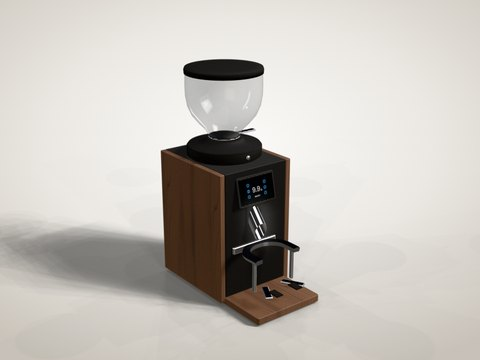
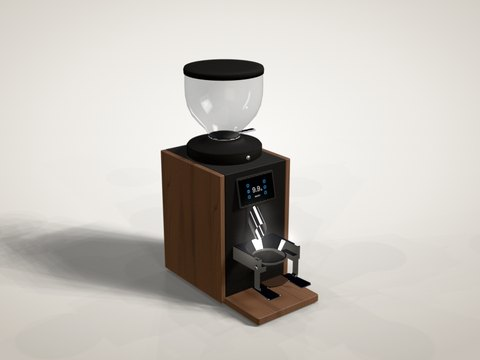
Bentwood H75: Siebträgerhalter nach den Werksfotos neu aufgebaut
Statt U-Bügel mit Streben jetzt wie im Original: gefräster Block
100 x 78,5 x 27 mm mit Trichterkegel (oben Ø 87, unten Ø 62), vorn nur
5,8 mm starke Außenwände und ein schmaler Ring um die Öffnung mit Absätzen
an den Wänden; unten 16,5 mm breite Wangen. Je Seite ein Flachband
3,8 x 12 mm in einer Nut mit Langloch und Schraube, unten mit Radius nach
innen abgekantet; U-förmige Auflage mit zwei nach vorn ausgestellten
Zinken und gewölbter Gummiauflage. Höhe so, dass wie im Frontfoto rund
11 mm Luft unter dem Auslauf bleiben. Abgeglichen an Front- und
Dreiviertelansichten von beiden Seiten, mit und ohne Siebträger.

Claude-Session: https://claude.ai/code/session_01XVE81muw7HYcqaEMYwBuXM

Changed region(s): [[0.4688, 0.6417, 0.6562, 0.8556], [0.4375, 0.8556, 0.5, 0.8861], [0.375, 0.825, 0.4375, 0.8556]]

diff --git a/js/devices/bentwood.js b/js/devices/bentwood.js
@@ -6,7 +6,9 @@
 // verstellbarer Siebträgerhalter) und die Werksfotos der Farbvarianten
 // (Schwarz/Walnuss, Schwarz, Weiß). Eine bemaßte Zeichnung veröffentlicht
 // Bentwood nicht; Gehäuse (170 × 200 × 262 mm), Display, Auslauf, Halter und
-// Trichter sind über die Herstellermaße aus den Fotos abgeleitet.
+// Trichter sind über die Herstellermaße aus den Fotos abgeleitet. Der
+// Siebträgerhalter ist an Front- und Dreiviertelansichten von beiden Seiten
+// (mit und ohne Siebträger) nachgemessen.
 //
 // Koordinaten: X = Breite, Y = Höhe (0 = Stellfläche), Z = Tiefe (+Z = Front).
 // Z = 0 ist die Mitte des Gehäuses (Trichterachse).
@@ -26,6 +28,24 @@ const H0 = 8; // Unterkante Gehäuse (Füße)
 const H1 = 268; // Oberkante Gehäuse
 const SIDE = 11; // Stärke der Seitenteile
 const FX = -6; // Mitte von Display, Auslauf und Halter (leicht links)
+
+/** Flächen umdrehen (nach einer Spiegelung mit scale(-1, 1, 1)) */
+function flipFaces(g) {
+  const out = g.index ? g.toNonIndexed() : g;
+  const p = out.attributes.position;
+  for (let i = 0; i < p.count; i += 3) {
+    for (const name of Object.keys(out.attributes)) {
+      const a = out.attributes[name];
+      for (let c = 0; c < a.itemSize; c++) {
+        const t = a.array[(i + 1) * a.itemSize + c];
+        a.array[(i + 1) * a.itemSize + c] = a.array[(i + 2) * a.itemSize + c];
+        a.array[(i + 2) * a.itemSize + c] = t;
+      }
+    }
+  }
+  out.computeVertexNormals();
+  return out;
+}
 
 const STAGES = [
   { id: 'sk-frame', src: 'skeleton', from: [0, 1, 0], dist: 400, gap: 0, dur: 0.7, drop: true },
@@ -236,35 +256,172 @@ function buildBentwood(mm) {
   // =========================================================================
   B.stage('fork');
   {
+    // Höhenverstellbarer Siebträgerhalter nach den Werksfotos (Front, Dreiviertel links/rechts,
+    // mit und ohne Siebträger), Maße über die Gerätebreite 170 mm aus der Frontansicht:
+    // - gefräster Block 100 × 78,5 mm, 27 mm hoch, mit Trichterkegel (oben Ø 87, unten Ø 62);
+    //   vorn bleiben nur 5,8 mm starke Außenwände stehen, dazwischen ist die Front bis auf eine
+    //   5 mm hohe Lippe ausgeschnitten (Frontfoto: Kegelfläche reicht bis an die Wände)
+    // - je Seite ein Flachband (3,8 × 12 mm) in einer Nut der Wange, mit Langloch und Schraube,
+    //   unten nach innen abgekantet
+    // - U-förmige Auflage (3 mm) mit zwei nach vorn ausgestellten Zinken, Gummi auf dem Steg
     const fm = mat('metal.fork');
-    // Halteplatte an der Front
-    B.add(rbox(104, 14, 6, 2, 2), fm, S('metal.fork')).position.set(FX, 112, HD + 3);
-    // Bügel (U, vorne offen) mit schrägen Innenflanken
-    const pts = [];
-    for (let k = 0; k <= 32; k++) {
-      const a = Math.PI + (k / 32) * Math.PI;
-      pts.push([FX + Math.cos(a) * 46, 114, HD + 46 + Math.sin(a) * 38]);
+    const add = (g) => B.add(boxProjectUV(g), fm, S('metal.fork'));
+    const yT = 122; // Oberkante Block (Frontfoto: rund 11 mm unter der Mündung des Auslaufs)
+    const yEb = yT - 27; // Unterkante Wangen
+    const yCb = yT - 21.5; // Unterkante Mittelteil (Lippe)
+    const yLt = yT - 16.5; // Oberkante Lippe = Unterkante Kegel
+    const D = 78.5; // Tiefe ab Front
+    const ZC = 45.5; // Trichterachse ab Front
+    const EI = 44.2; // Innenseite der vorderen Außenwände
+    const X0 = 45.6; // Nut für das Flachband
+    const WO = 50; // Außenseite
+    const rTop = 43.5;
+    const rBot = 31;
+    const rAt = (y) => rBot + ((rTop - rBot) * (y - yLt)) / (yT - yLt);
+    const BAR = { z0: 64, z1: 76, t: 3.8 };
+    // Grundriss-Koordinaten (x relativ zu FX, z relativ zur Front) -> Shape für plateY
+    const shp = (pts) => new THREE.Shape(pts.map(([x, z]) => new THREE.Vector2(FX + x, HD + z)));
+    const rectXZ = (x0, z0, x1, z1) => shp([[x0, z0], [x1, z0], [x1, z1], [x0, z1]]);
+    // (a) Wangen unterhalb des Mittelteils
+    // (unten 16,5 mm breit, Frontfoto)
+    for (const sx of [-1, 1]) add(plateY(rectXZ(sx > 0 ? 33.5 : -X0, 0, sx > 0 ? X0 : -33.5, D), yEb, yCb - yEb + 0.02, 0));
+    // (b) Lippe mit Bohrung (Ø 62): hinten volles Material, vorn ein schmaler Ring um die
+    //     Öffnung, an den Wänden je ein Absatz (Fotos: dünne gebogene Kante mit Stufen)
+    {
+      const RL = rBot + 3;
+      const xs = 33.5;
+      const ze = ZC + Math.sqrt(RL * RL - xs * xs);
+      const pts = [[-X0, 0], [X0, 0], [X0, D], [xs, D], [xs, ze]];
+      const te = Math.asin(xs / RL);
+      for (let k = 0; k <= 48; k++) {
+        const a = te - (2 * te * k) / 48;
+        pts.push([RL * Math.sin(a), Math.min(D, ZC + RL * Math.cos(a))]);
+      }
+      pts.push([-xs, ze], [-xs, D], [-X0, D]);
+      const sh = shp(pts);
+      const hole = new THREE.Path();
+      hole.absarc(FX, HD + ZC, rBot, 0, Math.PI * 2, true);
+      sh.holes.push(hole);
+      add(plateY(sh, yCb, yLt - yCb, 0, 64));
     }
-    pts.unshift([FX - 46, 114, HD + 74]);
-    pts.push([FX + 46, 114, HD + 74]);
-    const curve = new THREE.CatmullRomCurve3(pts.map((p) => new THREE.Vector3(...p)));
-    const prof = new THREE.Shape();
-    prof.moveTo(-4, -8);
-    prof.lineTo(4, -8);
-    prof.lineTo(5, 6);
-    prof.lineTo(-1, 8);
-    prof.lineTo(-4, 6);
-    prof.closePath();
-    const ring = new THREE.ExtrudeGeometry(prof, { steps: 80, bevelEnabled: false, extrudePath: curve });
-    B.add(ring, fm, S('metal.fork'));
-    // senkrechte Streben und untere Auflagen
+    // (c) Kegelbereich in dünnen Lagen: Rechteck minus Kreis minus Frontausschnitt
+    const layer = (r) => {
+      const pts = [[-X0, 0], [X0, 0], [X0, D], [EI, D]];
+      const arc = (a0, a1, n = 48) => {
+        for (let k = 0; k <= n; k++) {
+          const a = a0 + ((a1 - a0) * k) / n;
+          pts.push([r * Math.sin(a), ZC + r * Math.cos(a)]);
+        }
+      };
+      if (r > EI) {
+        const t = Math.asin(EI / r);
+        arc(t, Math.PI * 2 - t);
+      } else {
+        pts.push([EI, ZC]);
+        arc(Math.PI / 2, Math.PI * 1.5);
+        pts.push([-EI, ZC]);
+      }
+      pts.push([-EI, D], [-X0, D]);
+      return shp(pts);
+    };
+    const NL = 17;
+    for (let i = 0; i < NL; i++) {
+      const y0 = yLt + ((yT - yLt) * i) / NL;
+      const y1 = yLt + ((yT - yLt) * (i + 1)) / NL;
+      add(plateY(layer(rAt(y1)), y0, y1 - y0 + 0.02, 0, 64));
+    }
+    // glatte Kegelfläche innen (deckt die Lagen ab), nur wo Material ist
+    {
+      const prof = [];
+      for (let k = 0; k <= 18; k++) {
+        const y = yT - ((yT - yLt) * k) / 18;
+        prof.push([rAt(y), y]);
+      }
+      const cone = latheY(prof, 128).toNonIndexed();
+      const p = cone.attributes.position;
+      const keep = [];
+      for (let i = 0; i < p.count; i += 3) {
+        let cx = 0;
+        let cy = 0;
+        let cz = 0;
+        for (let k = 0; k < 3; k++) {
+          cx += p.getX(i + k) / 3;
+          cy += p.getY(i + k) / 3;
+          cz += p.getZ(i + k) / 3;
+        }
+        if (Math.abs(cx) < EI - 0.2 && cz > 0.3 && cy > yLt + 0.1) continue; // Frontausschnitt
+        for (let k = 0; k < 3; k++) keep.push(p.getX(i + k), p.getY(i + k), p.getZ(i + k));
+      }
+      const g = new THREE.BufferGeometry();
+      g.setAttribute('position', new THREE.Float32BufferAttribute(keep, 3));
+      g.computeVertexNormals();
+      g.translate(FX, 0, HD + ZC);
+      add(g);
+    }
+    // (d) Außenhaut der Wangen vor und hinter der Nut
     for (const sx of [-1, 1]) {
-      const x = FX + sx * 46;
-      B.add(rbox(5, 64, 8, 1.5, 2), fm, S('metal.fork')).position.set(x, 80, HD + 60);
-      const arm = B.add(rbox(14, 4, 46, 2, 2), fm, S('metal.fork'));
-      arm.position.set(x - sx * 14, 50, HD + 80);
-      arm.rotation.y = sx * 0.5;
-      B.plain(rbox(16, 3, 26, 1.5, 2), F.rubber).position.set(x - sx * 22, 52.6, HD + 96);
+      const xa = sx > 0 ? X0 : -WO;
+      const xb = sx > 0 ? WO : -X0;
+      add(plateY(rectXZ(xa, 0, xb, BAR.z0 - 0.4), yEb, yT - yEb, 0.5));
+      add(plateY(rectXZ(xa, BAR.z1 + 0.4, xb, D), yEb, yT - yEb, 0.5));
+    }
+    // Flachbänder: senkrecht in der Nut, unten mit Radius nach innen abgekantet
+    const yF = yT - 66; // Oberkante der Auflage
+    for (const sx of [-1, 1]) {
+      const xo = WO - 0.6;
+      const xi = xo - BAR.t;
+      const ri = 3;
+      const ro = ri + BAR.t;
+      const sh = new THREE.Shape();
+      sh.moveTo(xo, yT - 3);
+      sh.lineTo(xo, yF + ro);
+      sh.absarc(xo - ro, yF + ro, ro, 0, -Math.PI / 2, true);
+      sh.lineTo(EI, yF);
+      sh.lineTo(EI, yF + BAR.t);
+      sh.lineTo(xi - ri, yF + BAR.t);
+      sh.absarc(xi - ri, yF + BAR.t + ri, ri, -Math.PI / 2, 0, false);
+      sh.lineTo(xi, yT - 3);
+      sh.closePath();
+      const g = plateZ(sh, HD + BAR.z0, BAR.z1 - BAR.z0, 0.4, 12);
+      if (sx < 0) g.scale(-1, 1, 1);
+      const m = add(g);
+      m.position.x = FX;
+      if (sx < 0) m.geometry = flipFaces(m.geometry);
+      // Langloch und Schraube auf der Außenseite
+      const slot = B.plain(new THREE.PlaneGeometry(10, 3.2), F.darkGap);
+      slot.rotation.set(0, (sx * Math.PI) / 2, Math.PI / 2);
+      slot.position.set(FX + sx * (xo + 0.05), yT - 18, HD + (BAR.z0 + BAR.z1) / 2);
+      const head = B.plain(latheY([[0, 0], [3.4, 0], [3.4, 1.1], [2.6, 1.8], [0, 1.9]], 24), F.chrome);
+      head.rotation.z = -sx * (Math.PI / 2);
+      head.position.set(FX + sx * xo, yT - 20, HD + (BAR.z0 + BAR.z1) / 2);
+      const hex = B.plain(new THREE.CircleGeometry(1.3, 6), F.darkGap);
+      hex.rotation.y = (sx * Math.PI) / 2;
+      hex.position.set(FX + sx * (xo + 1.95), yT - 20, HD + (BAR.z0 + BAR.z1) / 2);
+    }
+    // U-förmige Auflage mit zwei Zinken, Gummi auf dem Steg
+    {
+      const sh = filletShape(
+        [
+          [FX - 47, HD + 52],
+          [FX + 47, HD + 52],
+          [FX + 52, HD + 112],
+          [FX + 25.4, HD + 112],
+          [FX + 26, HD + 74],
+          [FX - 26, HD + 74],
+          [FX - 25.4, HD + 112],
+          [FX - 52, HD + 112],
+        ],
+        [4, 4, 4, 3, 3, 3, 3, 4],
+        4,
+      );
+      add(plateY(sh, yF - 3, 3, 0.6, 24));
+      const pad = new THREE.Shape();
+      pad.moveTo(FX - 25.5, HD + 53);
+      pad.lineTo(FX + 25.5, HD + 53);
+      pad.lineTo(FX + 25.5, HD + 74);
+      pad.quadraticCurveTo(FX, HD + 92, FX - 25.5, HD + 74); // Vorderkante nach vorn gewölbt
+      pad.closePath();
+      B.plain(plateY(pad, yF - 0.5, 3.4, 0.9, 24), new THREE.MeshStandardMaterial({ color: 0x3a2a22, roughness: 0.85 }));
     }
   }
 

diff --git a/README.md b/README.md
@@ -123,7 +123,7 @@ Jedes Gerät ist ein eigenes Modul unter `js/devices/` und trägt sich beim Lade
 | **Lelit MaraX3** | Orthografische Seiten- und Frontansicht der Werks-Renderings, Maßstab über die Höhe 385 mm (technisches Datenblatt PL62X3); Gehäuse rund 220 mm breit wie bei Händlern angegeben | Seiten- und Frontansicht decken sich mit den Werksansichten; Lelit nennt 535 mm Tiefe, die Ansichten ergeben rund 507 mm | fünfeckige Holzknöpfe mit Kappen, Holzgriffe, Pagaia, Holzfüße, Zierleisten, optional Holz-Seitenteile |
 | **Niche Duo** (Mühle) | Orthografische Seitenansicht auf der Titelseite der Bedienungsanleitung „Niche Duo 83F“ (3,75 px/mm; Höhe 355 und Tiefe 231 mm wie in den Herstellerangaben 135 × 230 × 355 mm), beschriftete Ansicht S. 5, Werksfotos | Seitenansicht deckt sich mit der Zeichnung (Gehäuse, Kopf, Rückenlinie, Säule, Sockel, Füße, Becher, Auslauf) | Holzplatte und Holzfüße (Holz-Set wie bei rb.crafts), Lünette, Mahlgradring mit Skala, Logo auch aus Holz |
 | **Niche Zero** (Mühle) | Herstellermaße 122 × 211 × 311 mm; dieselbe Formensprache wie die Duo, Kontur aus der Duo-Seitenansicht auf die Zero-Maße umgerechnet, Details nach der (perspektivischen) Ansicht der Anleitung und den Fotos | keine eigene orthografische Zeichnung verfügbar, Proportionen über die Herstellermaße | wie Niche Duo |
-| **Bentwood H75** (Mühle) | Herstellermaße 170 × 302 × 444 mm (mit 600-g-Trichter) und Werksfotos von bentwoodcoffee.ch | keine Zeichnung verfügbar; Gehäuse, Display, Auslauf, Halter und Trichter über die Herstellermaße aus den Fotos abgeleitet, daher weniger genau als die übrigen Geräte | Holz-Seitenteile und Holz-Abstellfläche (Walnuss ab Werk, weitere Hölzer wie bei rb.crafts) oder in Gehäusefarbe |
+| **Bentwood H75** (Mühle) | Herstellermaße 170 × 302 × 444 mm (mit 600-g-Trichter) und Werksfotos von bentwoodcoffee.ch | keine Zeichnung verfügbar; Gehäuse, Display, Auslauf und Trichter über die Herstellermaße aus den Fotos abgeleitet, daher weniger genau als die übrigen Geräte; der Siebträgerhalter (Trichterblock, verstellbare Flachbänder, Zinkenauflage mit Gummi) ist an Front- und Dreiviertelansichten nachgemessen | Holz-Seitenteile und Holz-Abstellfläche (Walnuss ab Werk, weitere Hölzer wie bei rb.crafts) oder in Gehäusefarbe |
 | **Option-O Lagom P80** (Mühle) | Herstellermaße 24 × 14 × 38 cm (T × B × H, option-o.com und Sicherheitshandbuch), nahezu orthografische Seitenansicht der Werksfotos (3,31 px/mm; Höhe 380 und Plattenlänge 236 mm wie angegeben), Strichzeichnungen der Kurzanleitung | Silhouette deckt sich mit der Werksansicht (Säule Ø 114 mm mit 20° Neigung, Oberteil, Trichter Ø 80 mm, Auslauf, Gabel, Tasten, Bodenplatte) | Silber eloxiert oder Schwarz, Holz-Bodenplatte, Drehzahlknopf auch aus Holz, Akzente z. B. in Gold, Skala passt sich hell/dunkel an |
 
 **Vorgehen beim Vermessen**: Zeichnungen aus den PDFs mit 500–600 dpi rendern, den Maßstab über mehrere Herstellermaße bestimmen und prüfen (z. B. Höhe, Breite, Durchmesser), Bauteil für Bauteil ablesen. Wo La Marzocco CAD-Daten veröffentlicht, wurden daraus nur Schnitte und Maße gewonnen; die Modelle selbst sind prozedural aufgebaut. Zur Kontrolle wird eine orthografische Silhouette des Modells über die Zeichnung gelegt.
